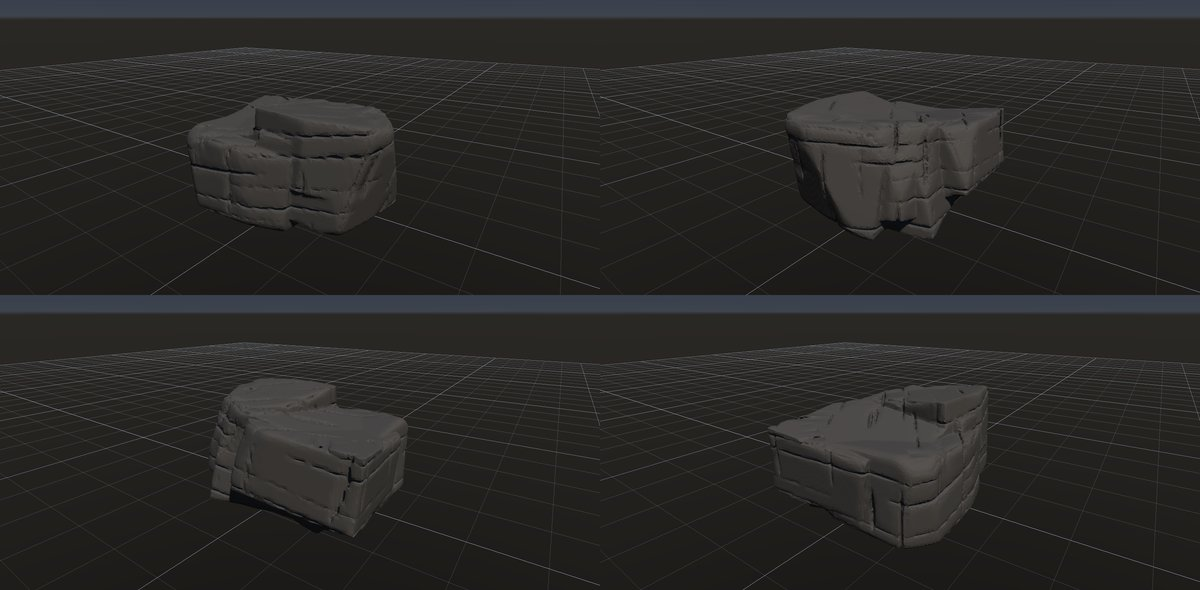
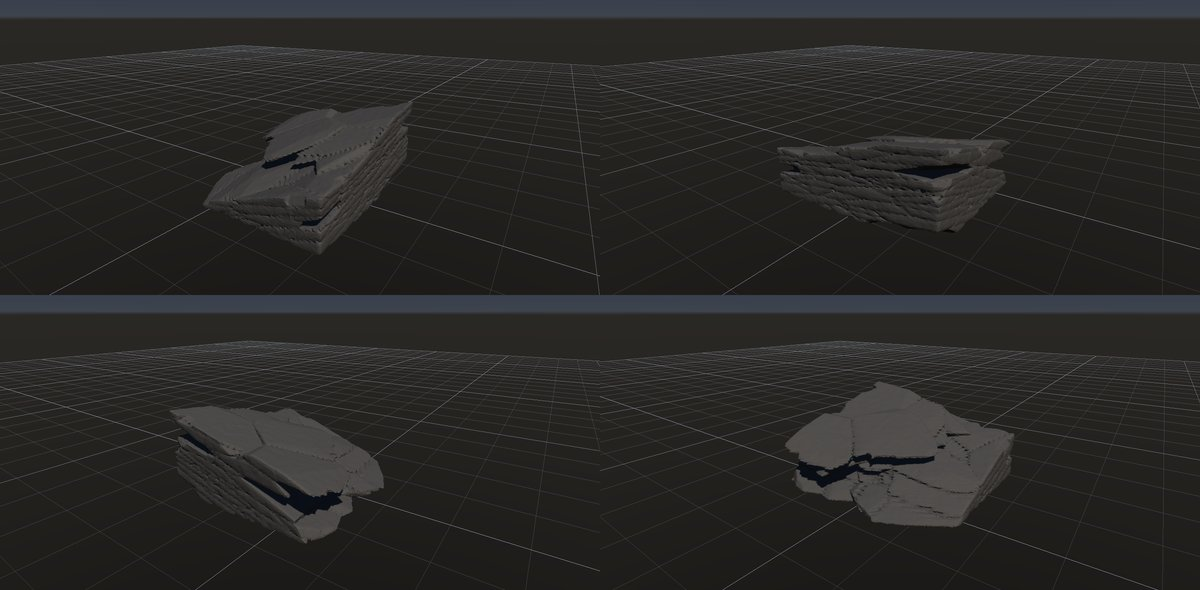
feat: 板状節理を扁平な Voronoi の板に割ってから欠く形に作り直す
溝を彫って板に見せる組み方をやめ、扁平に伸ばした点の Voronoi で不規則な
板に割り、接地の Peel で外周から抜き取る。板が段になって張り出し、
石積みの壁に見えなくなった。三角形が多いので Decimate で減らす。
研究ページ・網羅表・手順書の落とし穴（アプリも作り直す、板のずらし、
Peel の順序がノード ID に依存する）を更新した。

diff --git a/docs/research/rocks.md b/docs/research/rocks.md
@@ -1,7 +1,7 @@
 # 岩の研究ページ
 
 作成日時: 2026-10-01 12:50
-更新日時: 2026-10-01 23:40
+更新日時: 2026-10-02 00:30
 
 「あらゆる種類の岩を作れること」を目標に、岩の種類ごとに今の出来・作り方・課題・改善の履歴を残すページ。一つずつ改善していく。足りないノードの整理（G 番号）は [岩の種類の網羅](../reference/rock-catalog.md)、組み方の手順は [skill](../../.agents/skills/rock-graph/SKILL.md)。
 
@@ -23,7 +23,7 @@
 | 岩 | 状態 | レシピ | 次に直したいこと |
 | --- | --- | --- | --- |
 | [塊状・節理で割れた岩](#塊状節理で割れた岩) | ○ | `blocky` | 節理面が大味 |
-| [板状節理](#板状節理) | △ | `platy-joints` | 石積みの壁に見える・板の張り出しが無い |
+| [板状節理](#板状節理) | △ | `platy-joints` | 元の箱の面が一部残る・板の縁がのこぎり状 |
 | [柱状節理](#柱状節理玄武岩) | ○ | `columnar` | 柱の頭の形・風化 |
 | [片理（結晶片岩）](#片理結晶片岩) | ○ | `schist` | 斜めの細溝のボクセルの段差 |
 | [スレート・頁岩](#スレート頁岩) | ○ | `slate` | 板が浮いて見える所 |
@@ -71,11 +71,12 @@
 
 - 状態: △
 - レシピ: [`platy-joints`](../../examples/ai-recipes/platy-joints.rockgraph)
-- 作り方: 不規則な塊（Random Boxes）を緩く傾いた Parallel Planes の Volume Crack で浅く彫り、直交する縦の節理を足す。どちらも有限の割れ目（板の割れ目は長く途切れがち、縦の節理は短く段違い）。Volume Close で繋ぎ直す。
-- 課題: 割れ目が途切れて土嚢のような縞は消えたが、まだ石積みの壁のように見える。板ごとの張り出し・欠けが無い。
+- 作り方: 割ってから欠く（`granite-buttress` と同じ考え方）。箱の岩体を、扁平に伸ばした点の Voronoi（伸長 [4, 0.45, 4]、座標系を 30° 傾ける）で不規則な板に割る。Scatter Points の密度のむらで割れの多い所と少ない芯を作り、接地の Peel（大きさの効き 0.5・安定 0.4）で外周から板を抜き取る。To Volume でまとめ、継ぎ目の隙間を Volume Close（幅）で埋め、局所の欠け・小面のノイズ・角の摩耗。薄い板の重なりは三角形が多い（約 70 万）ので Decimate で 12 万に減らす。
+- 課題: 元の箱の面が一部に残る（芯が箱の端に寄った側。点の seed で変わる）。板の縁と継ぎ目がのこぎり状に見える所がある（傾いた薄い板と格子の段）。Peel の欠ける順序は Voronoi Fracture のノード ID にもよるので、ノードの ID を振り直すと形が変わる（ID を変えただけで全ての板が崩れたことがある）。
 - 履歴:
   - 2026-10-01 初版。最初は Box から始めて直方体が透けて見えたので、不規則な塊に変えた。
   - 2026-10-01 Volume Crack の有限の割れ目を使った。以前は全面に同じ溝が通って土嚢を積んだように見えた。割れ目が途中で止まり、縦の節理が段違いになって石らしくなった。縦の節理の間隔は 0.9 → 0.5 m に詰めた。
+  - 2026-10-02 溝を彫る組み方をやめ、割ってから欠く組み方に作り直した。構造面（Parallel Planes の板と縦の節理）で割る案は、板が煉瓦のように揃ってまた石積みに見えた。扁平な点の Voronoi で割ると不規則な板が段になって張り出した。効いたのは密度のむら・Peel の大きさの効き・板の傾き。効かなかったこと: Peel に試作した「横からの侵食」（側面の露出で欠く順を決める）は、縁から内側へ横に食い込んで板が骨組みのように残り、取り消した。大きさの効きを下げると上から削れて平たくなった（高さ 1.8 → 0.8 m）。岩体を大きくすると箱の面がかえって広く残った。大きな波長のなめらかなノイズは薄い板を削り切った。板をずらす（Piece Transform のばらつき）と、傾いた板の継ぎ目が格子 1 つ分の隙間になって縁がのこぎり状になった。
 
 ### 柱状節理（玄武岩）
 

diff --git a/.agents/skills/rock-graph/SKILL.md b/.agents/skills/rock-graph/SKILL.md
@@ -101,4 +101,7 @@ python tools/rock_shot.py <graph> <out.png> [--yaw <度>] [--pitch <度>] [--ui]
 - **節理で割れた岩は「割ってから欠く」**: ひびを彫るだけだと後付けに見える。ブロックに割り、Piece Select の Peel（地面から生えた岩は `grounded`）で外周から抜き取る。不規則な割れ方は節理の向きに回して伸ばした Voronoi（Points）、規則的な割れ方は Parallel Planes を連結して Voronoi Fracture の Planes 入力。Piece Transform の `jitterPosition` / `jitterRotation` でブロックをずらすと石積みに見えない（`granite-buttress`）。元の形の平らな面が残ると石垣に見えるので、岩体を大きめにして侵食を進める。 塔・突起として芯を残すには Scatter Points の `clustering`（密度のむら）と Peel の `peelSize`（大きさの効き）。
 - **割れ目が格子・石積みに見える**: Parallel Planes の割れ目は既定で端から端まで続く。Volume Crack の `extent`（割れ目の長さ）・`coverage`（割合）・`stagger`（段違い）で途中で止まる節理にする。`noise` を上げて途切れさせると点線になる。
 - **Pieces to Mesh の後の空洞**: 板の隙間が閉じた空洞として大量に残る。Volume Close で埋まる。
+- **ノードの C++ を変えたら `rock_editor` も作り直す**: 撮影（`rock_shot.py`）はアプリで評価する。`rock_cli` だけ作り直すと、古いアプリが知らない設定を無視した形が写り、効果を見誤る。
+- **板に割れた岩は「扁平な点の Voronoi」**: 伸長の Y を小さく（0.45 など）すると不規則な板になる（`platy-joints`）。傾いた板を Piece Transform でずらすと、継ぎ目が格子 1 つ分の隙間になり縁がのこぎり状になる。薄い板は表面積が大きく、Volume Noise の量が大きいと板を削り切る。三角形が多い（数十万）ので Decimate で減らす。
+- **Peel の欠ける順序は Voronoi Fracture のノード ID にも依存する**: レシピを写して ID を振り直すと形が変わる（全て崩れることもある）。写すときは ID を保つ。
 - **Debug ビルドの Remesh** はスタックオーバーフローで落ちることがある。撮影・評価は Release を使う。

diff --git a/docs/reference/rock-catalog.md b/docs/reference/rock-catalog.md
@@ -1,7 +1,7 @@
 # 岩の種類の網羅（作れる岩と足りないノード）
 
 作成日時: 2026-10-01 08:30
-更新日時: 2026-10-01 18:20
+更新日時: 2026-10-02 00:30
 
 ## 目的
 
@@ -21,7 +21,7 @@
 | 岩 | 見た目の特徴 | 状態 | 作り方 / 足りないもの |
 | --- | --- | --- | --- |
 | 塊状・節理で割れた岩 | 大きな平らな節理面、角張った輪郭 | ○ | `blocky`（Random Boxes → Plane Cuts 3 系統 → 接地）。面が大味 |
-| 板状節理 | 平行な板状の割れ目、直交する縦の節理 | △ | `platy-joints`（有限の割れ目で途中で止まる節理）。まだ石積みの壁に見える。板ごとの張り出しが無い |
+| 板状節理 | 平行な板状の割れ目、直交する縦の節理 | △ | `platy-joints`（扁平な点の Voronoi で板に割り、接地の Peel で外周から欠く）。板が段になって張り出す。元の箱の面が一部残る |
 | 柱状節理（玄武岩） | 多角柱の束、柱ごとの高さの違い | ○ | `columnar`（縦に 16 倍伸ばした Voronoi、外周の片を除く、柱を細らせて隙間、一部を下げる） |
 | 片理（結晶片岩） | 急傾斜の薄い剥がれ、細溝、細長い破片 | ○ | `schist`。斜めの細溝にボクセルの段差が出る |
 | スレート・頁岩 | 水平に近い薄板の積み重ね、剥がれた縁 | ○ | `slate`（薄い Layered Boxes → Peel） |

diff --git a/docs/changelog.md b/docs/changelog.md
@@ -1,10 +1,11 @@
 # Changelog
 
 作成日時: 2026-09-20 20:05
-更新日時: 2026-10-01 23:40
+更新日時: 2026-10-02 00:30
 
 ## 未リリース
 
+- 板状節理のレシピ（`platy-joints`）を作り直した。扁平な点の Voronoi で不規則な板に割り、接地の Peel で外周から欠く。板が段になって張り出し、石積みの壁に見えなくなった。
 - 岩グラフを組む手順（skill `rock-graph`）を `.agents/skills/rock-graph/SKILL.md` へ移し、Codex からも使えるようにした。Claude Code の skill はそこを指す入口にし、AGENTS.md から案内する。
 - Piece Select の Peel（接地）に「安定」を足した。下で支える片に載る面積が片の大きさに足りないと転げ落ち、頭でっかちの片が残らない。Voronoi Fracture の構造面で、90° 回した系統の法線の誤差で片が捨てられ失敗していたのを直した。`granite-buttress` は上ほど細く尖る形にした。
 - ビューポートの全体表示（A キー）と起動引数 `--frame-all` が、原点ではなくメッシュの範囲の中心を見るようにした。接地した背の高い岩の頂が画面から切れていた。作業グリッドも入れる全体表示は従来どおり原点を見る。
